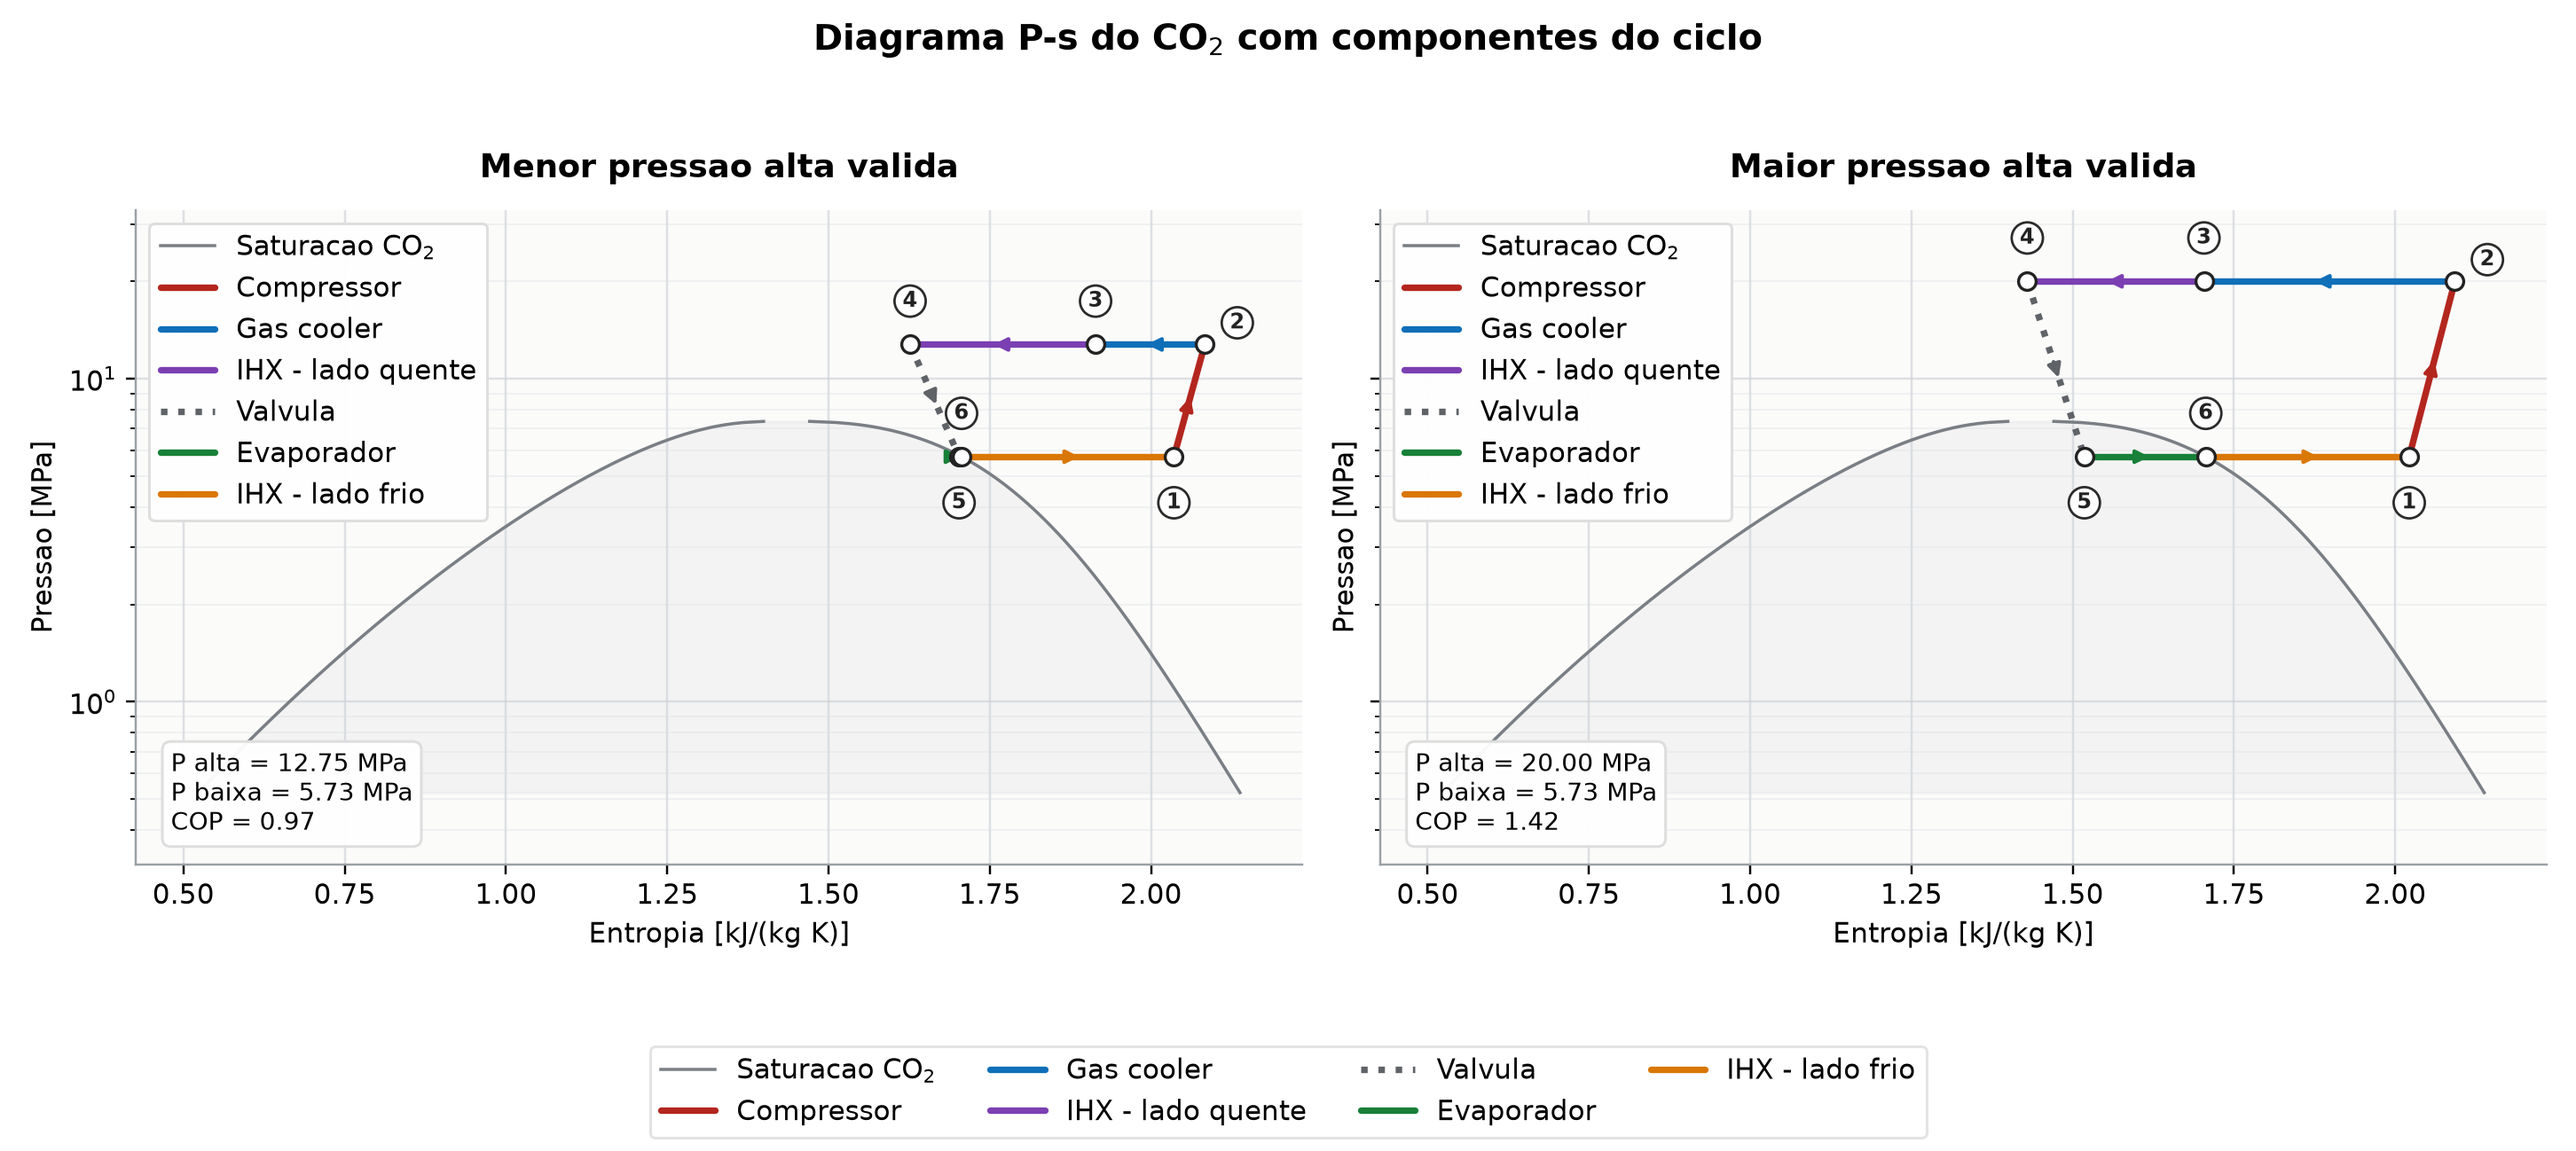
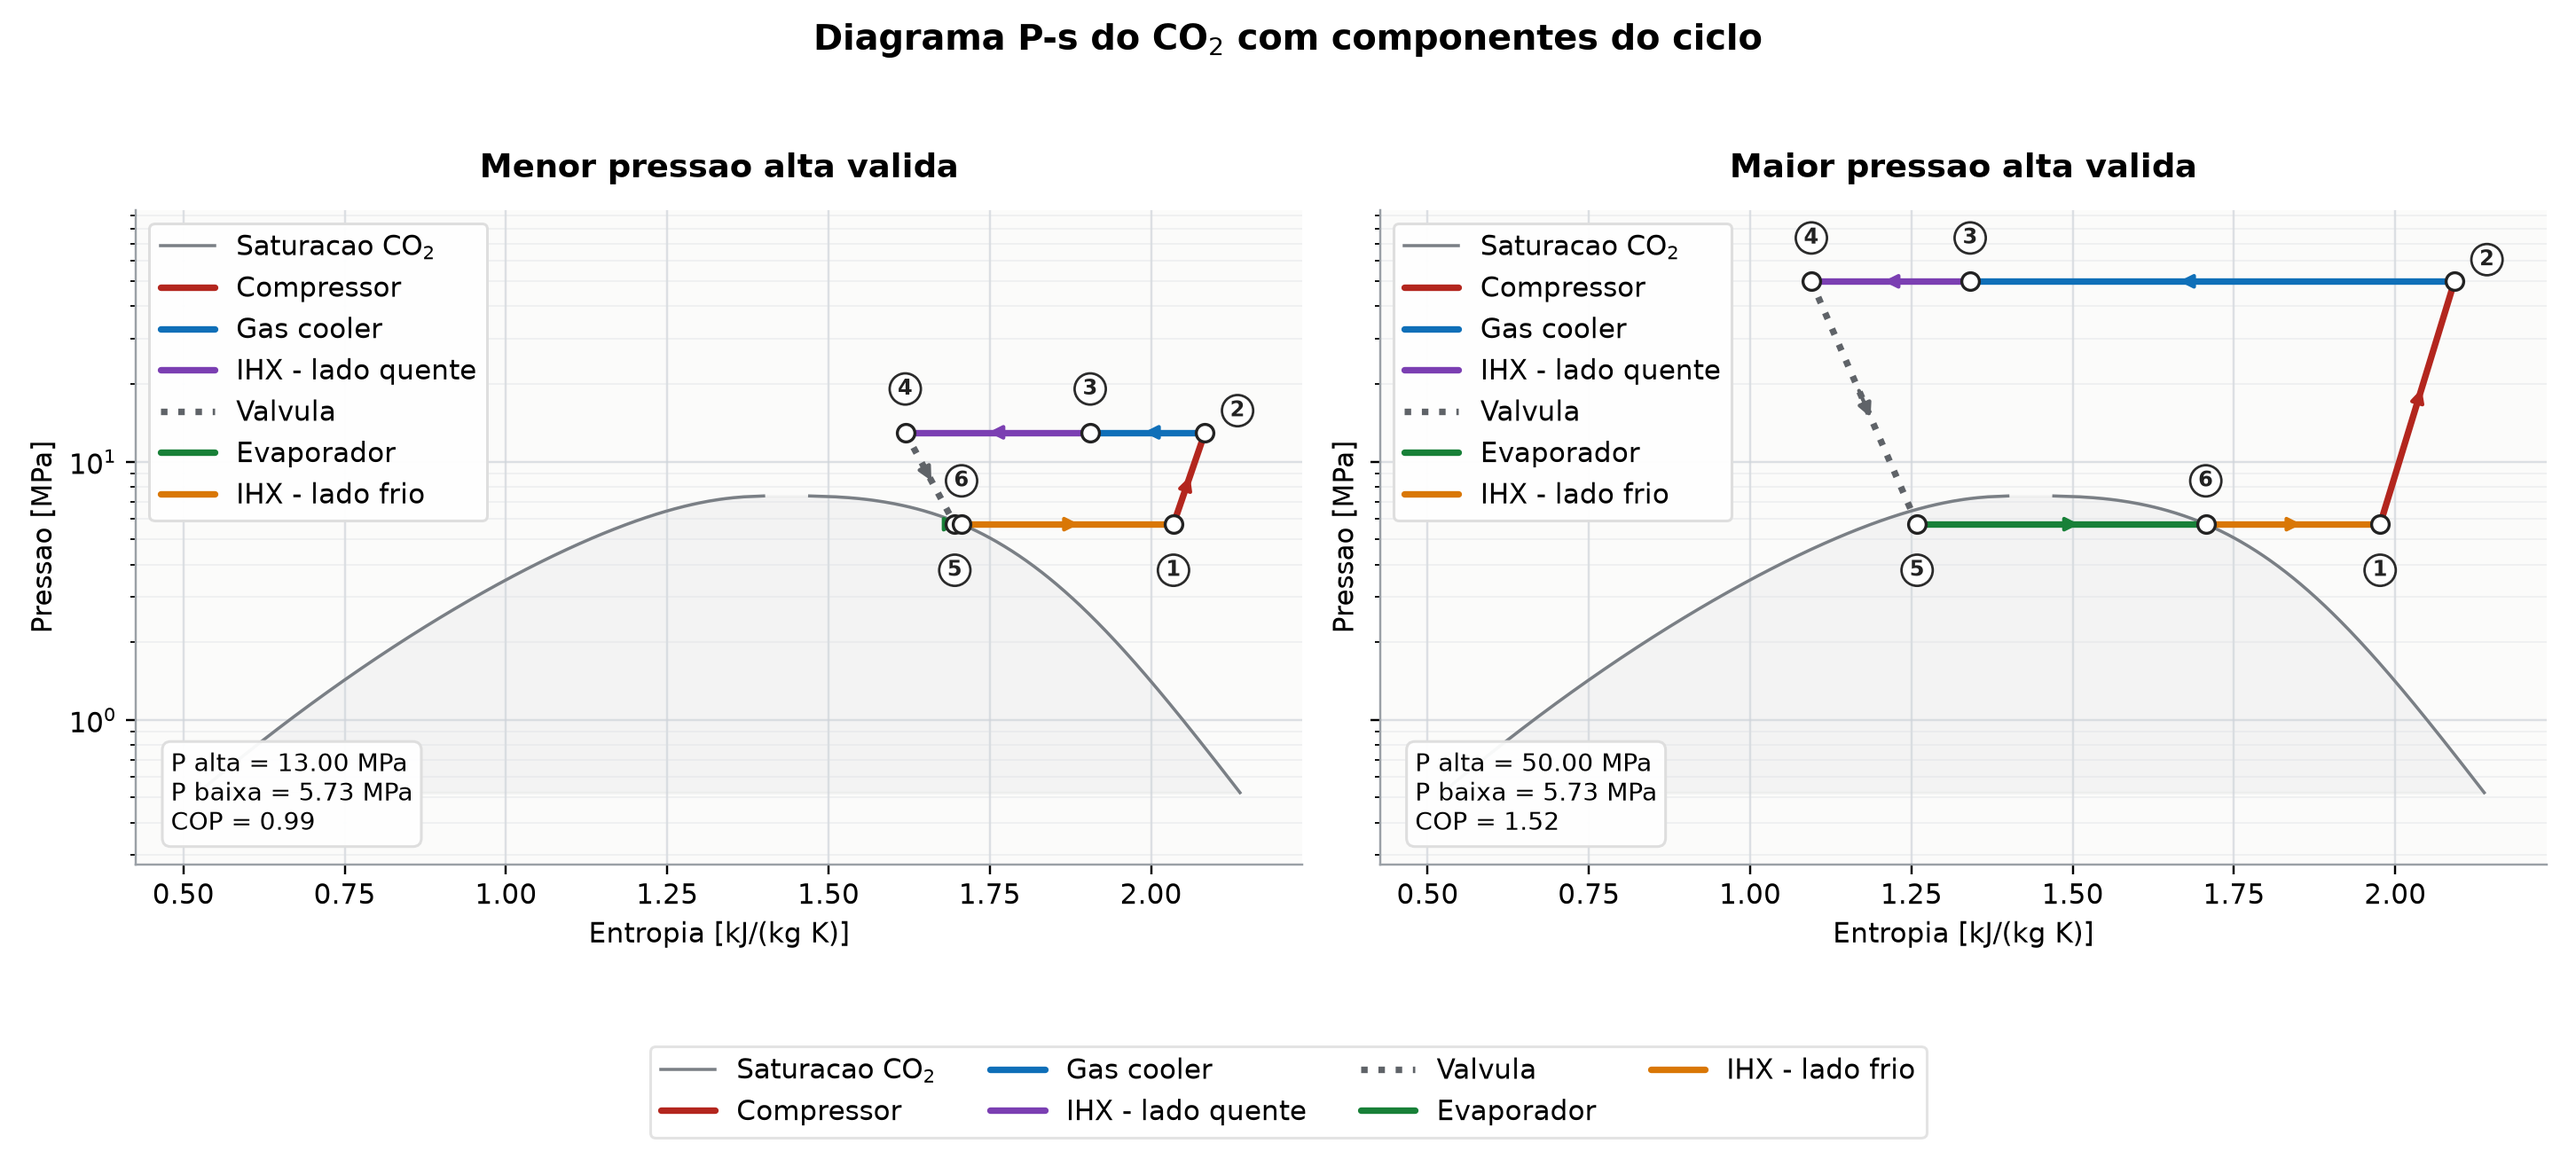
50MPa

diff --git a/cycle_model.py b/cycle_model.py
@@ -36,8 +36,8 @@ class CycleInputs:
     epsilon_IHX: float = 0.70
     deltaT_min_gascooler: float = 5.0
     P_high_min: float = 8e6
-    P_high_max: float = 20e6
-    pressure_step: float = 0.25e6
+    P_high_max: float = 50e6
+    pressure_step: float = 1.0e6
     N_segments: int = 300
 
 
